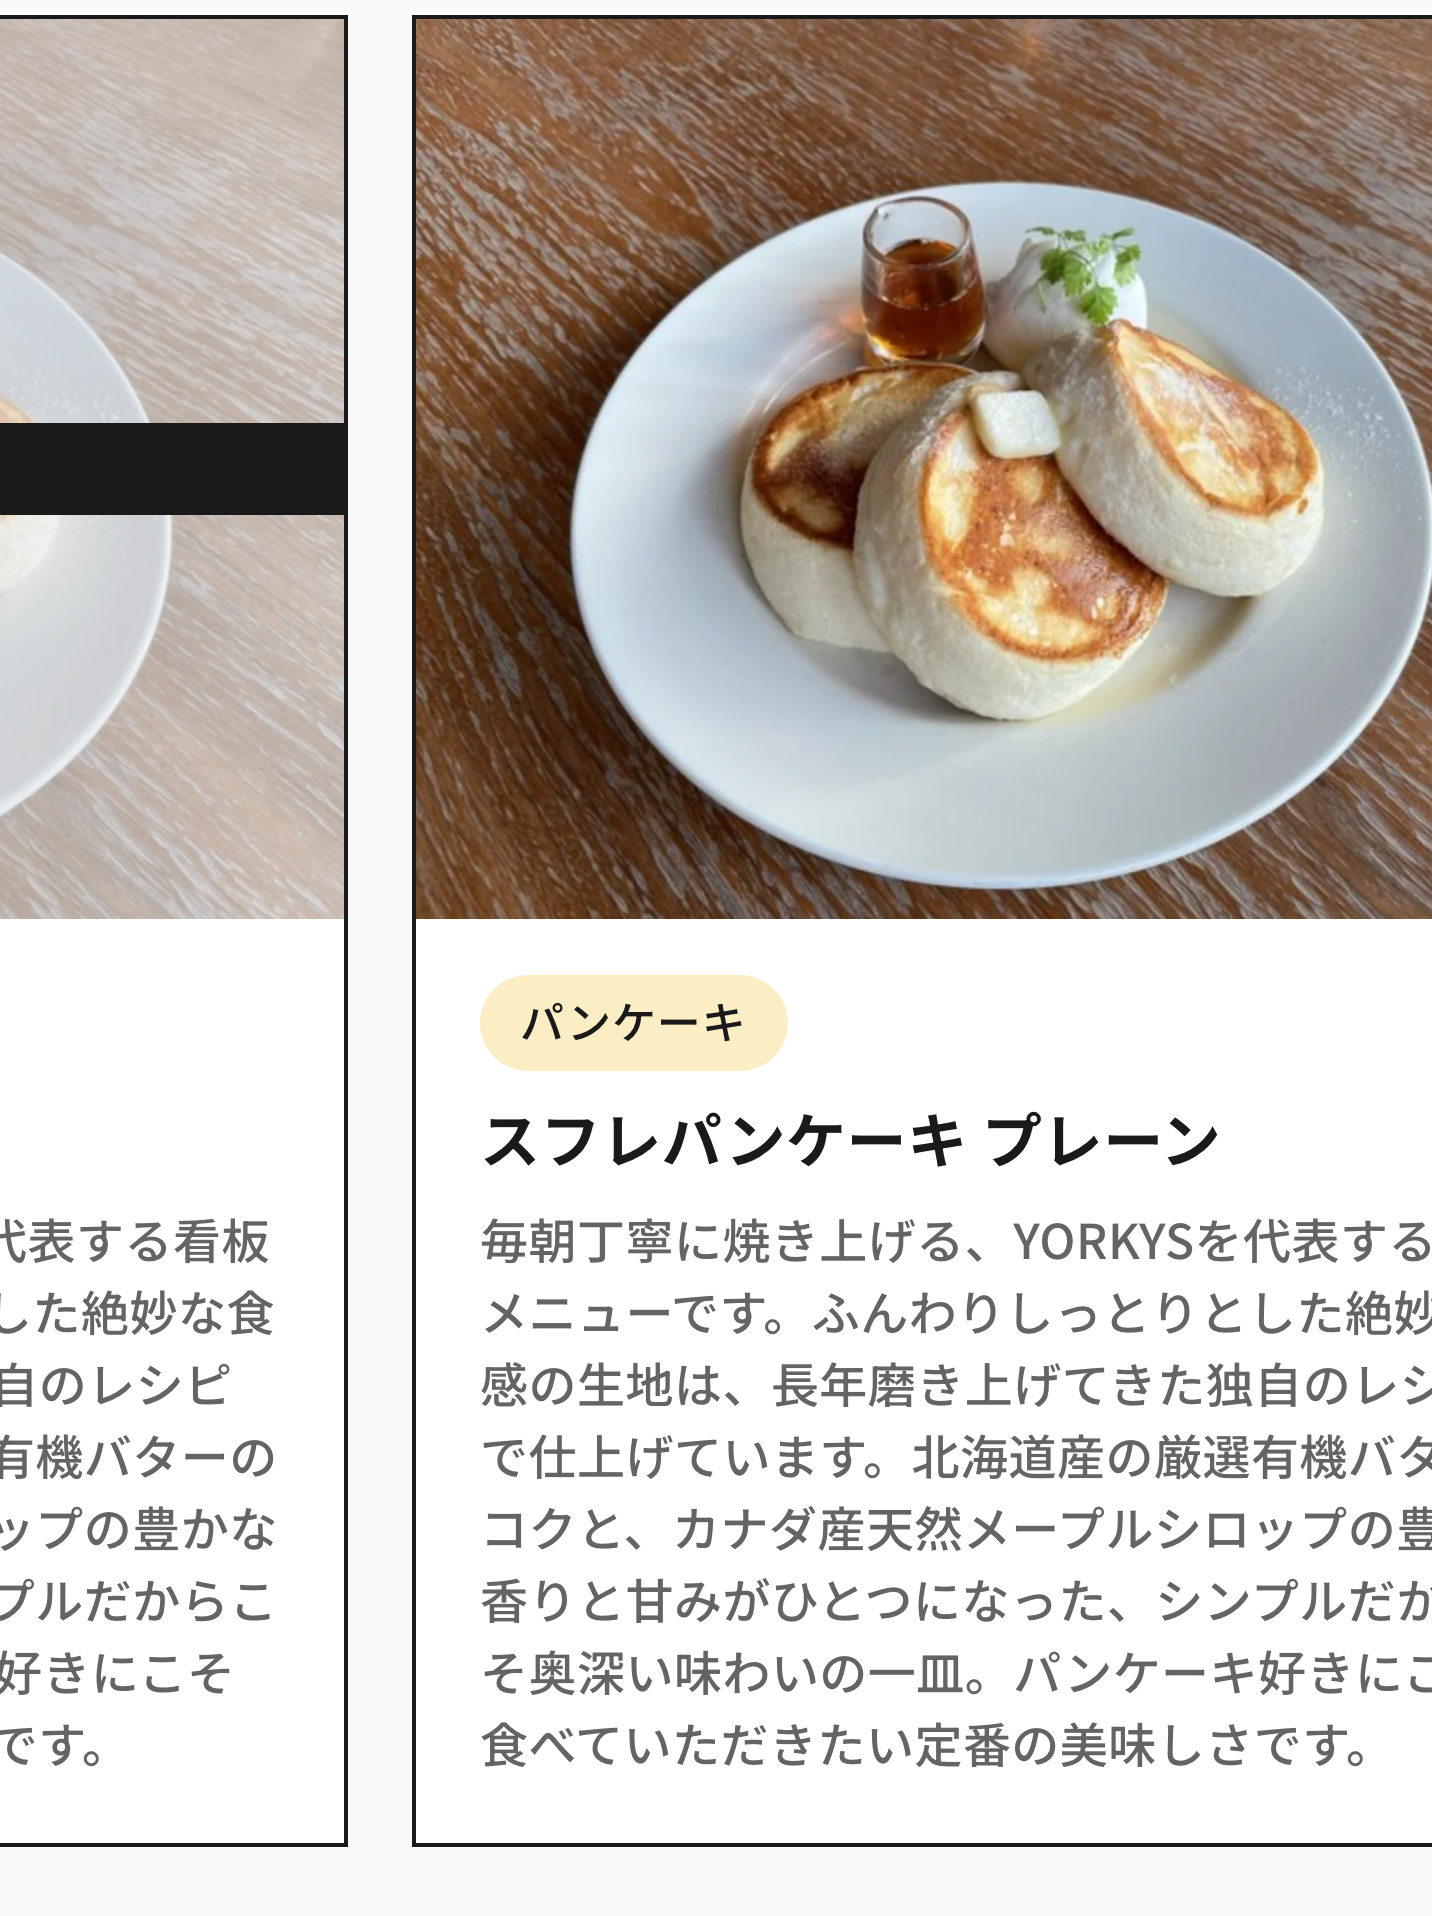
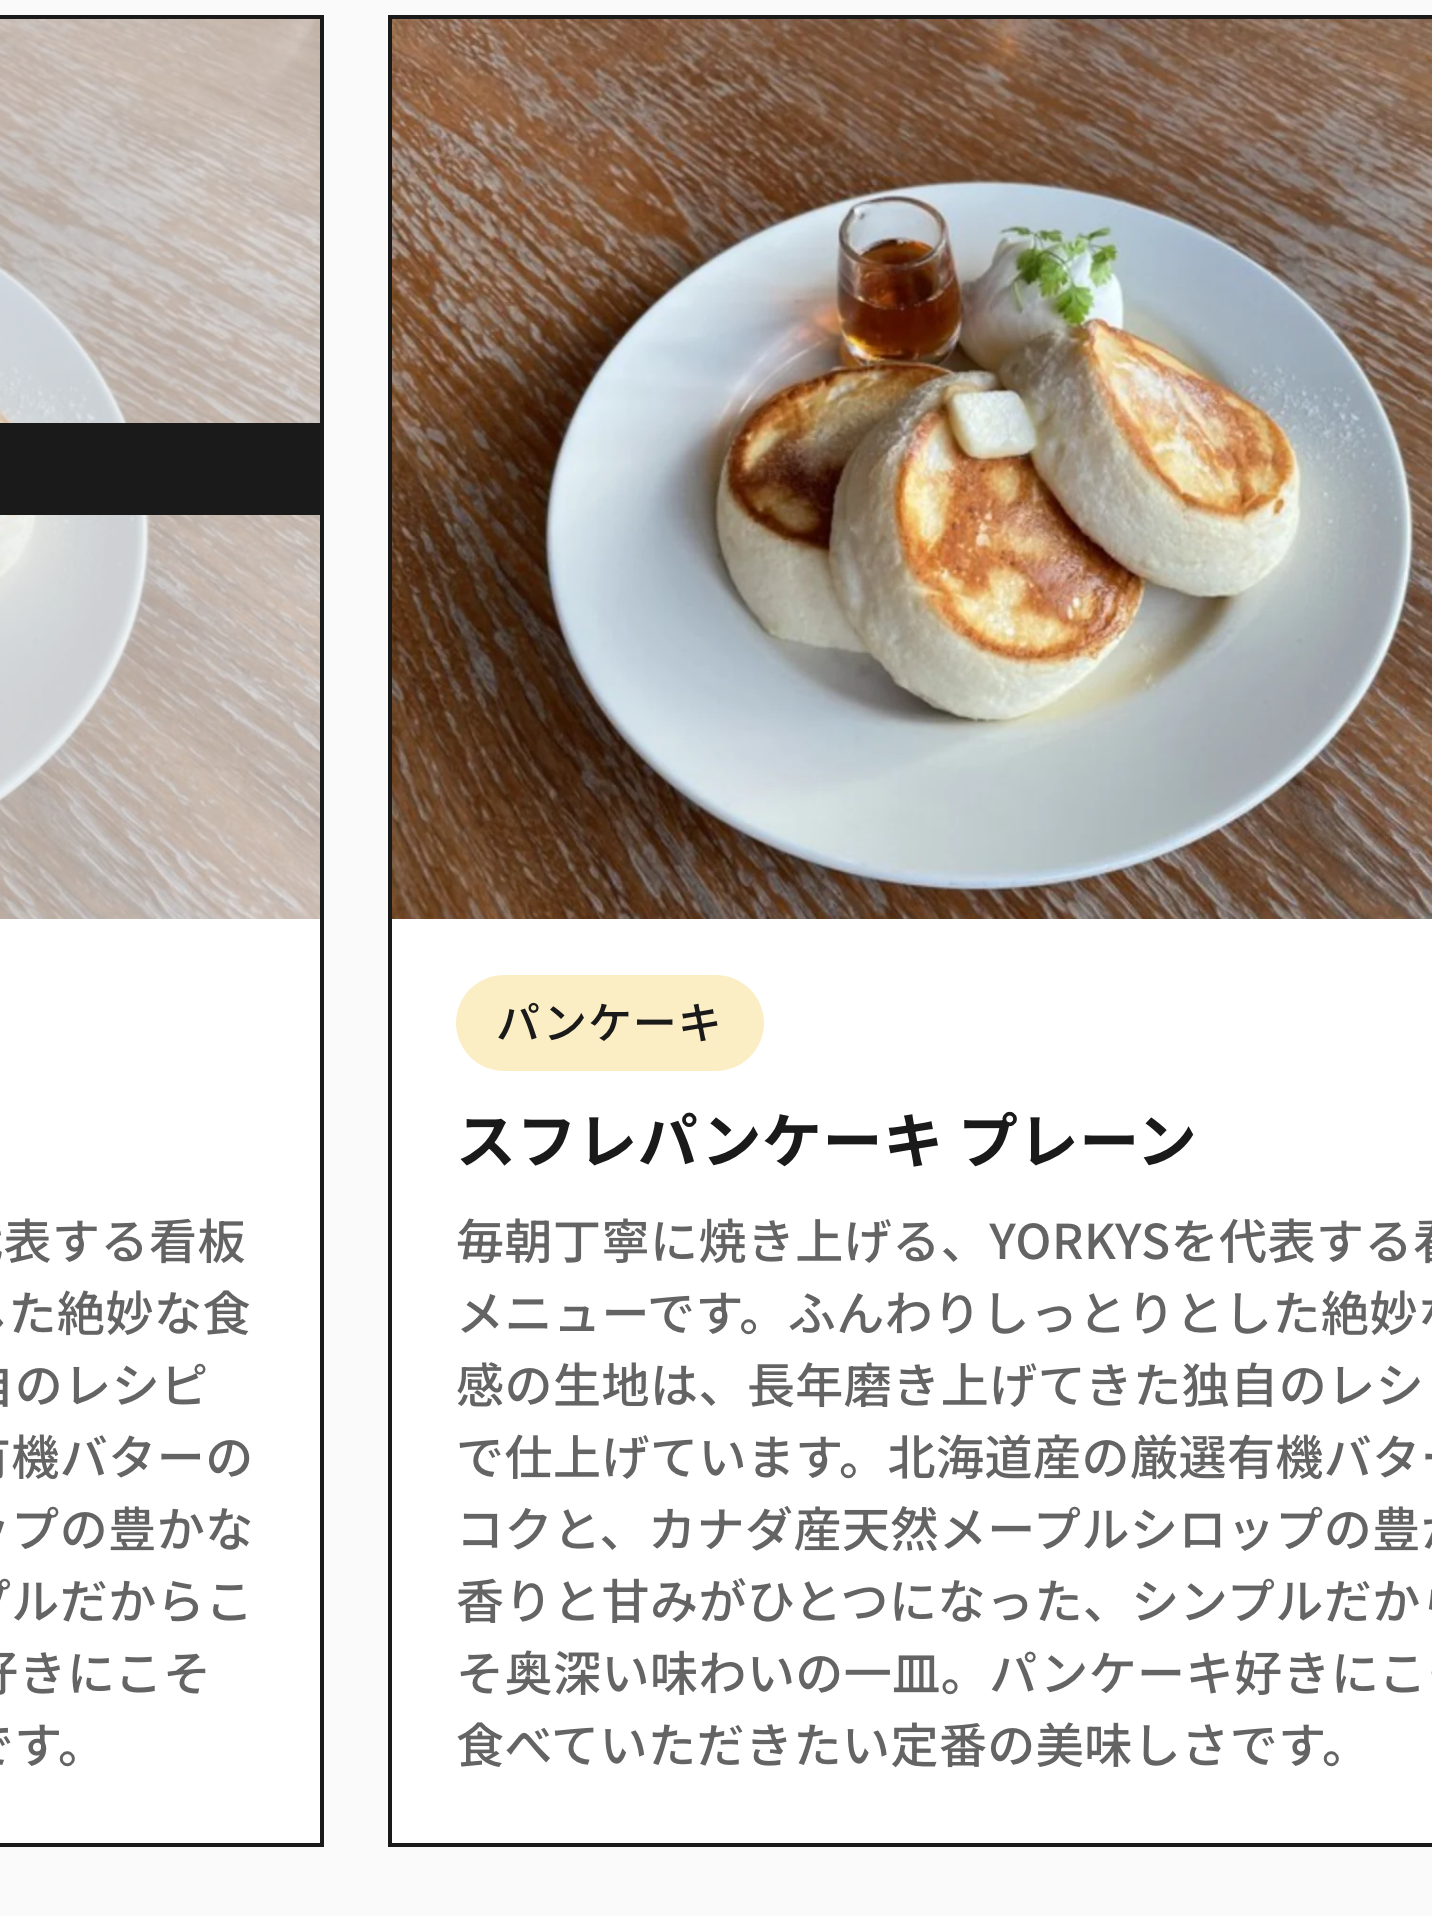
fix(order): 進捗バーを高さ4pxにし、上の余白を24pxに広げる (#76)
天真の指示。6px は太く、上のコンテンツとの間が16pxで詰まって見えた。

- バー: 高さ 6→4、角丸 3→2
- カルーセルとの間: mt 12（＋バーの上パディング4＝16）→ mt 20（＝24）
- /dev/ui のサムネが basePath を通っておらず本番で画像が割れていたのを直す

diff --git a/app/dev/ui/page.tsx b/app/dev/ui/page.tsx
@@ -143,8 +143,8 @@ const sampleDrink: MenuItem = {
 };
 
 const sampleVideo = [
-  { type: "image" as const, url: "/images/pancake/p1.webp" },
-  { type: "video" as const, url: "/images/hero/background.mp4" },
+  { type: "image" as const, url: asset("/images/pancake/p1.webp") },
+  { type: "video" as const, url: asset("/images/hero/background.mp4") },
 ];
 
 /* ── 印刷状況（/admin/print）のサンプル ──
@@ -245,8 +245,8 @@ function TagSelectFieldDemo() {
 
 const DEMO_MEDIA: StoreMedia = {
   enabled: true,
-  url: "/images/hero/background.mp4",
-  posterUrl: "/images/pancake/p1.webp",
+  url: asset("/images/hero/background.mp4"),
+  posterUrl: asset("/images/pancake/p1.webp"),
   updatedAt: "2026-08-03T14:32:00+09:00",
   backgroundType: "video",
   backgroundColor: null,
@@ -359,7 +359,7 @@ function AdminMenuRowDemo() {
         name="スフレパンケーキ プレーン"
         categoryLabel="パンケーキ"
         price={980}
-        thumbnailUrl="/images/pancake/p1.webp"
+        thumbnailUrl={asset("/images/pancake/p1.webp")}
         available
         soldOut={soldOut}
         onToggleSoldOut={() => setSoldOut((v) => !v)}
@@ -369,7 +369,7 @@ function AdminMenuRowDemo() {
         name="パンケーキ ティラミス"
         categoryLabel="パンケーキ"
         price={1760}
-        thumbnailUrl="/images/pancake/p3.webp"
+        thumbnailUrl={asset("/images/pancake/p3.webp")}
         available
         soldOut
         onToggleSoldOut={() => {}}
@@ -379,7 +379,7 @@ function AdminMenuRowDemo() {
         name="フレンチトースト プレーン"
         categoryLabel="フレンチトースト"
         price={1870}
-        thumbnailUrl="/images/pancake/ft1.webp"
+        thumbnailUrl={asset("/images/pancake/ft1.webp")}
         available={false}
         onToggleSoldOut={() => {}}
         onEdit={() => {}}
@@ -1100,7 +1100,7 @@ export default function UiGalleryPage() {
           tag="人気"
           categoryLabel={sampleCat.name}
           categoryColor={sampleCat.tag_color}
-          imageUrl="/images/pancake/p1.webp"
+          imageUrl={asset("/images/pancake/p1.webp")}
         />
       </Section>
 

diff --git a/components/ui/CarouselProgress.tsx b/components/ui/CarouselProgress.tsx
@@ -7,7 +7,7 @@
  * 一番右まで寄せても最後のドットが点灯しない取りこぼしがあった。
  * バーなら枚数に関係なく「右端＝100%」で必ず埋まりきる。
  *
- * 見た目は旧ドットの寸法を引き継ぐ（高さ6・角丸3・上下パディング4）。
+ * 高さ4・角丸2・上下パディング4（天真の指示 2026-09-13。6px は太かった）。
  * 幅は旧ドット（最大7個 ＋ gap6）とほぼ同じ 120 に固定して、行の重さを変えない。
  *
  * 色は**さりげなく**（天真の指摘、2026-09-13。最初は墨で目立ちすぎた）。
@@ -39,11 +39,11 @@ export default function CarouselProgress({
       role="presentation"
     >
       <span
-        className="relative block h-[6px] rounded-[3px] bg-bg-tertiary overflow-hidden"
+        className="relative block h-[4px] rounded-[2px] bg-bg-tertiary overflow-hidden"
         style={{ width: TRACK_WIDTH }}
       >
         <span
-          className="absolute inset-y-0 left-0 rounded-[3px] bg-text-tertiary"
+          className="absolute inset-y-0 left-0 rounded-[2px] bg-text-tertiary"
           /* 指の動きに遅れないよう、幅の追従は短く。
              スクロール中は毎フレーム更新されるので、長いと遅延に見える */
           style={{ width: `${percent}%`, transition: "width 120ms var(--ease-out)" }}

diff --git a/components/ui/MenuCarousel.tsx b/components/ui/MenuCarousel.tsx
@@ -124,7 +124,9 @@ function ScrollRow({
   return (
     <div className={className}>
       {row}
-      <CarouselProgress ratio={progress} className="mt-[var(--space-12)]" />
+      {/* カルーセルとバーの間は 24（= mt 20 ＋ バー自身の上パディング 4）。
+          天真の指示 2026-09-13。16 だと詰まって見える */}
+      <CarouselProgress ratio={progress} className="mt-[var(--space-20)]" />
     </div>
   );
 }
@@ -179,7 +181,7 @@ export function MenuCarouselM({
           {children}
         </div>
       </div>
-      <CarouselProgress ratio={progress} className="mt-[var(--space-12)]" />
+      <CarouselProgress ratio={progress} className="mt-[var(--space-20)]" />
     </div>
   );
 }
